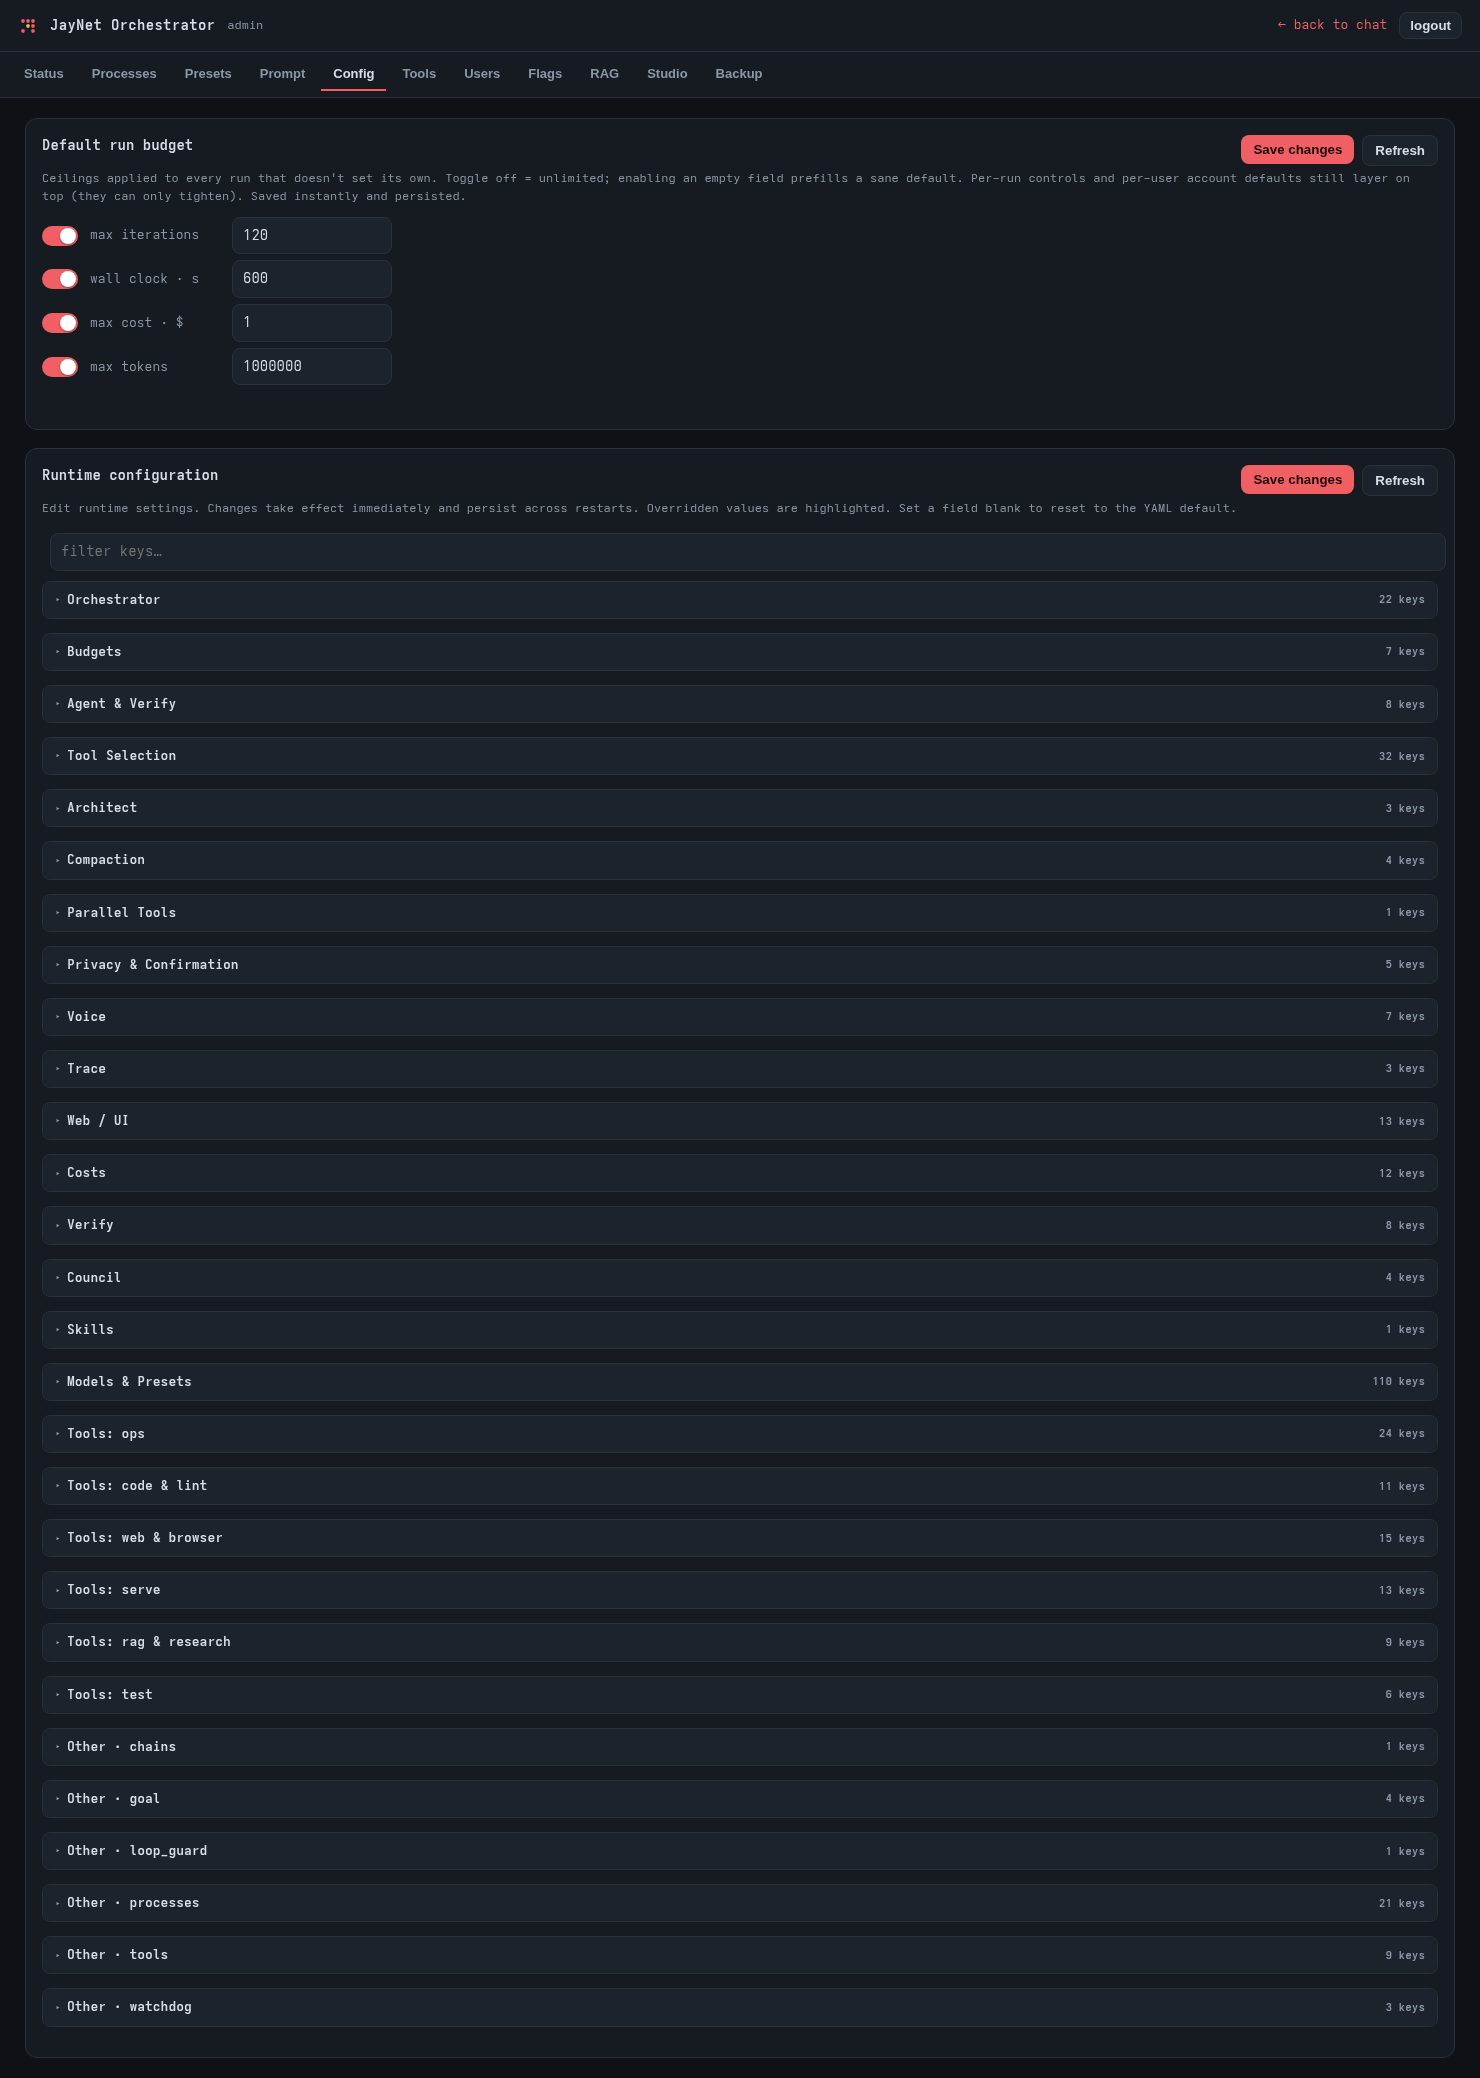
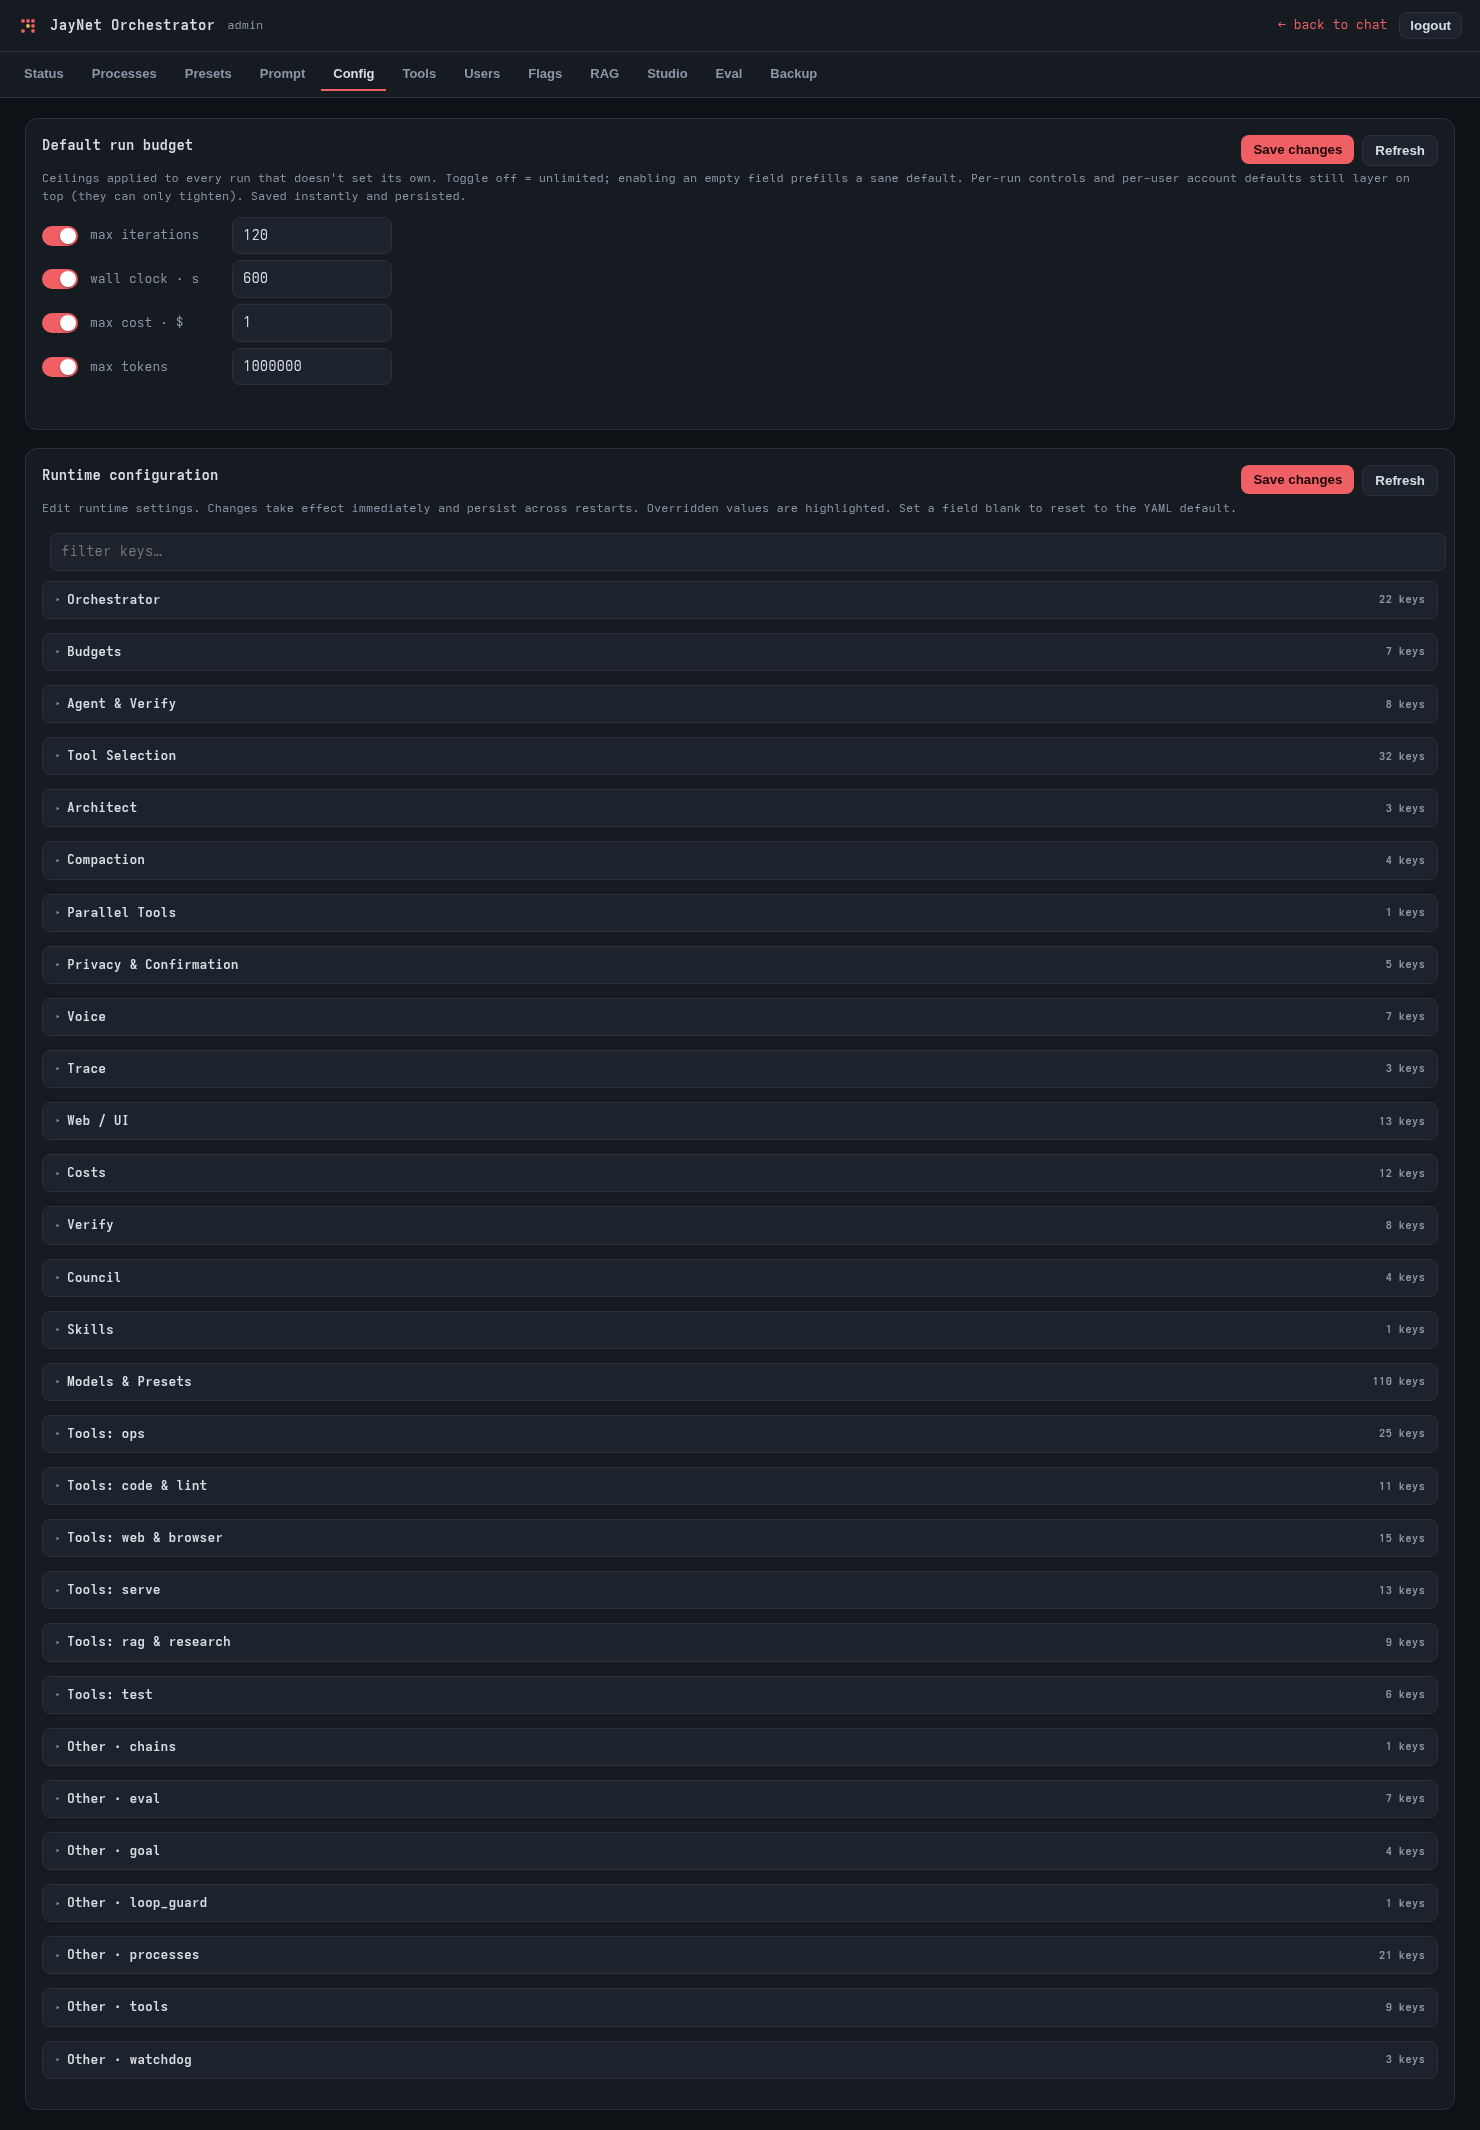
screenshots: refresh + add Admin → Eval tab shots

diff --git a/scripts/screenshot_pages.py b/scripts/screenshot_pages.py
@@ -42,8 +42,19 @@ ADMIN_REDACT = {
               "#reportRows td:nth-child(5)"],
     "rag": ["#ragRows td:nth-child(1)", "#ragRows td:nth-child(2)"],
     "studio": [],
+    # Eval tab: case ids are public seeds, but the results table's judge
+    # notes are model-generated free text — blur them.
+    "eval": ["#evResultRows td:nth-child(5)"],
     "backup": [],
 }
+
+# The Eval tab has sub-views behind #evSub (Cases | Statistics | Proposals).
+# The main loop shot already captures Cases; these get their own PNGs.
+# (sub-view button, output file, selectors to redact)
+EVAL_SUBVIEWS = [
+    ("stats", "admin-eval-stats.png", []),
+    ("proposals", "admin-eval-proposals.png", ["#evPropRows td:nth-child(3)"]),
+]
 ACCOUNT_REDACT = {
     "usage": ["#who", "#runs tr td:nth-child(6)"],
     "settings": ["#who"],
@@ -145,6 +156,11 @@ def main():
                      if (l) [...l.children].slice(6).forEach(el => el.remove()); }""")
             shot(page, out, f"admin-{tab}.png", full=True,
                  selectors=ADMIN_REDACT[tab])
+            if tab == "eval":
+                for sub, name, sel in EVAL_SUBVIEWS:
+                    page.click(f'#evSub button[data-evsub="{sub}"]')
+                    settle(page)
+                    shot(page, out, name, full=True, selectors=sel)
 
         print(f"GET {base}/account")
         page.goto(base + "/account", wait_until="domcontentloaded")
